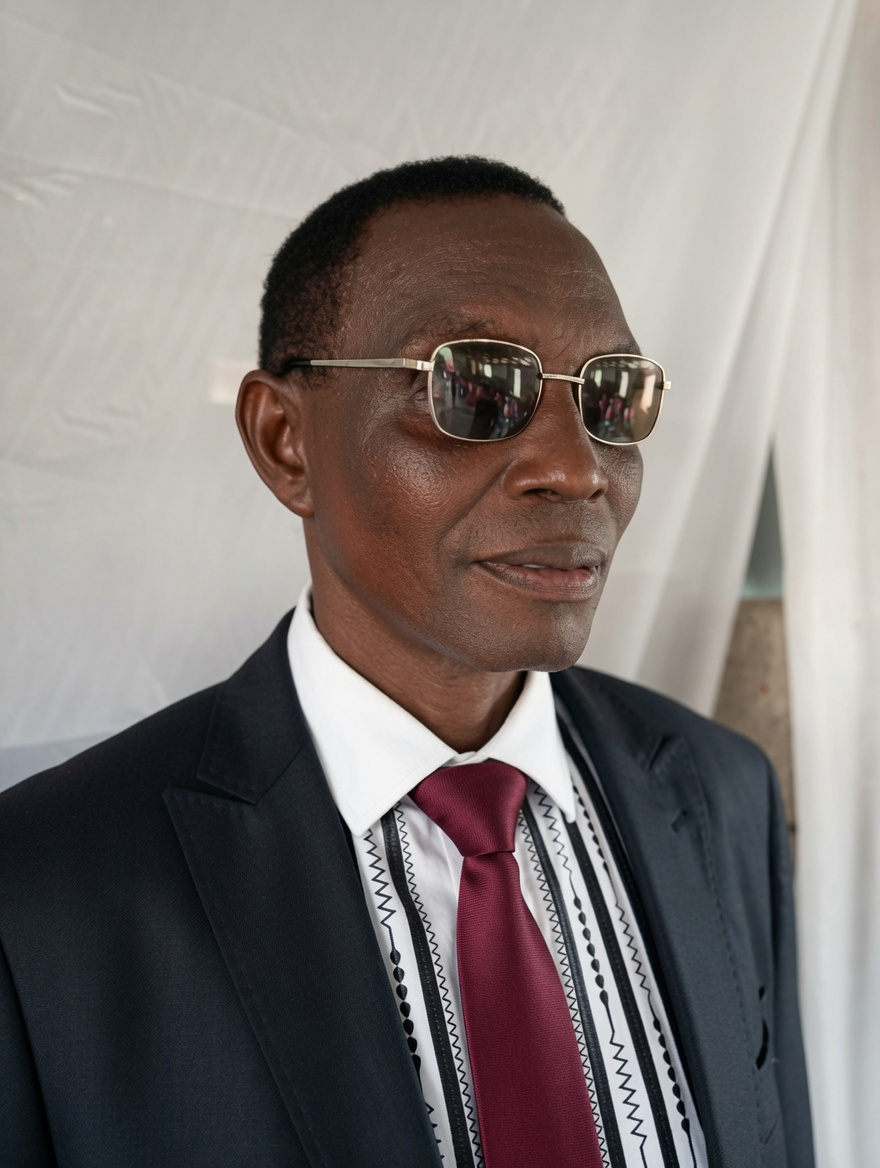
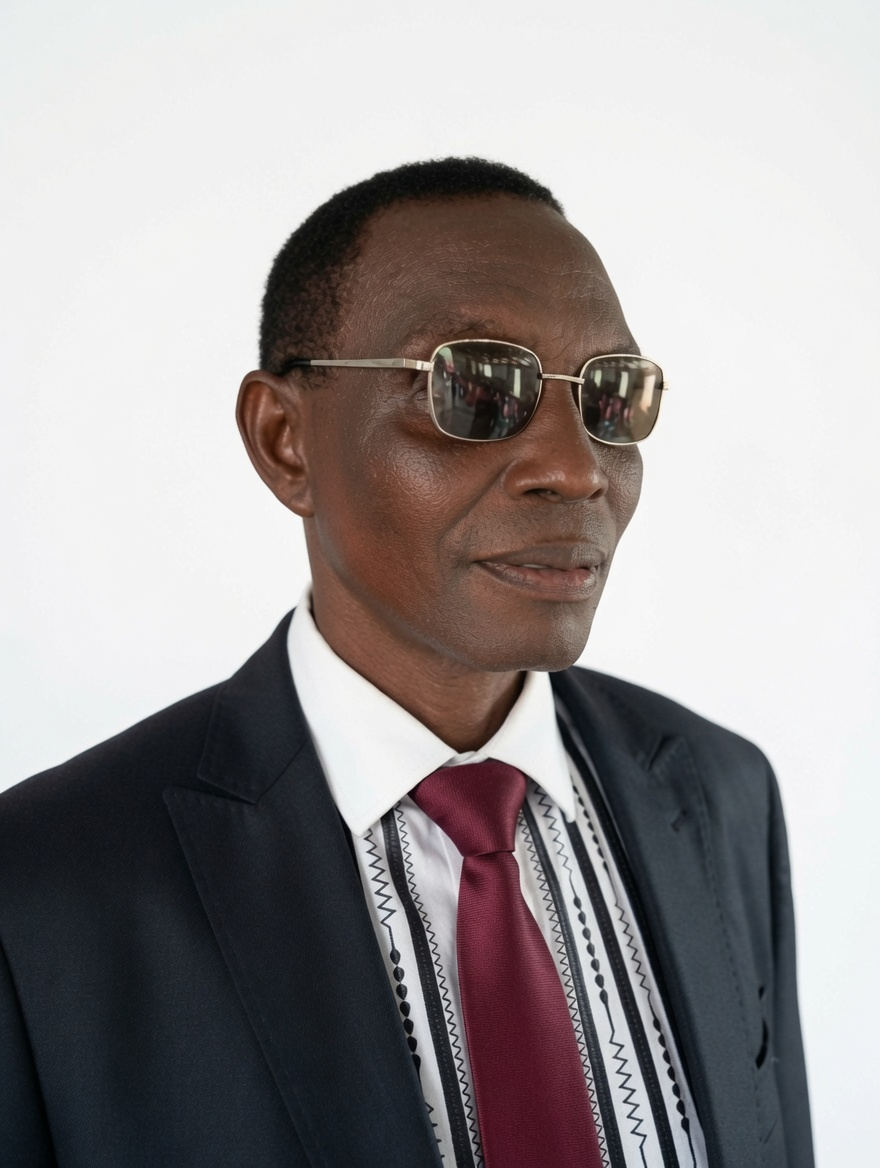
fffggg

diff --git a/src/app/services/page.tsx b/src/app/services/page.tsx
@@ -16,14 +16,14 @@ export default function ServicesPage() {
     <>
       <section className="relative overflow-hidden bg-navy py-20 lg:py-24">
         <div className="blueprint-grid absolute inset-0 opacity-50" />
-        <div className="absolute inset-0 bg-gradient-to-b from-navy/60 to-navy" />
+        <div className="absolute inset-0 bg-linear-to-b from-navy/60 to-navy" />
         <div className="container-page relative">
           <p className="spec-tag mb-4 text-sky">Service Index</p>
           <h1 className="max-w-2xl font-display text-4xl font-bold tracking-tight text-white sm:text-5xl">
             Technical &amp; labour supply services, end to end.
           </h1>
           <p className="mt-5 max-w-xl text-base leading-relaxed text-white/65">
-            Nine disciplines covering engineering, fabrication, construction, and
+            Twelve disciplines covering engineering, fabrication, construction, and
             maintenance for the oil and gas industry — delivered by our teams out of
             our Warri fabrication yard.
           </p>
@@ -40,7 +40,7 @@ export default function ServicesPage() {
                 href={`/services/${s.slug}`}
                 className="group flex flex-col overflow-hidden rounded-md border border-line bg-white transition-all hover:-translate-y-0.5 hover:border-primary hover:shadow-lg hover:shadow-primary/5"
               >
-                <div className="relative aspect-[16/10] w-full overflow-hidden bg-navy">
+                <div className="relative aspect-16/10 w-full overflow-hidden bg-navy">
                   <img
                     src={s.image}
                     alt={s.imageAlt}

diff --git a/src/lib/projects-data.ts b/src/lib/projects-data.ts
@@ -61,8 +61,8 @@ export const projects: Project[] = [
     image:
       "/assets/field-work/fw7.jpeg",
     gallery: [
-      "/assets/field-work/fw9.jpeg",
-      "/assets/field-work/fw8.jpeg",
+      "/assets/company-img/blowout2.jpg",
+      "/assets/company-img/blowout.jpg",
       "/assets/field-work/fw7.jpeg",
     ],
   },

diff --git a/src/lib/team-data.ts b/src/lib/team-data.ts
@@ -18,13 +18,13 @@ export const teamMembers: TeamMember[] = [
   {
     name: "Pst. Morgan Obahor",
     role: "Operations Manager",
-    image: "/assets/team/MorganObahor.jpg",
+    image: "/assets/team/Morgan.jpg",
     imageAlt: "Portrait of Pst. Morgan Obahor, Operations Manager",
   },
   {
     name: "Stanley Chukwudi Ifebadiofu",
     role: "QHSE Manager",
-    image: "/assets/team/Stanley.jpeg",
+    image: "/assets/team/Stanley3.jpg",
     imageAlt: "Portrait of Stanley Chukwudi Ifebadiofu, QHSE Manager",
   },
   {

diff --git a/src/lib/services-data.ts b/src/lib/services-data.ts
@@ -237,7 +237,7 @@ export const services: Service[] = [
       "Workforce mobilisation, camp logistics and personnel administration",
       "Short-term project surge staffing and long-term secondment",
     ],
-    image: "/assets/field-work/fw3.jpeg",
+    image: "/assets/company-img/manpower.png",
     imageAlt: "Rows of hard hats representing field workforce",
     icon: "users",
   },